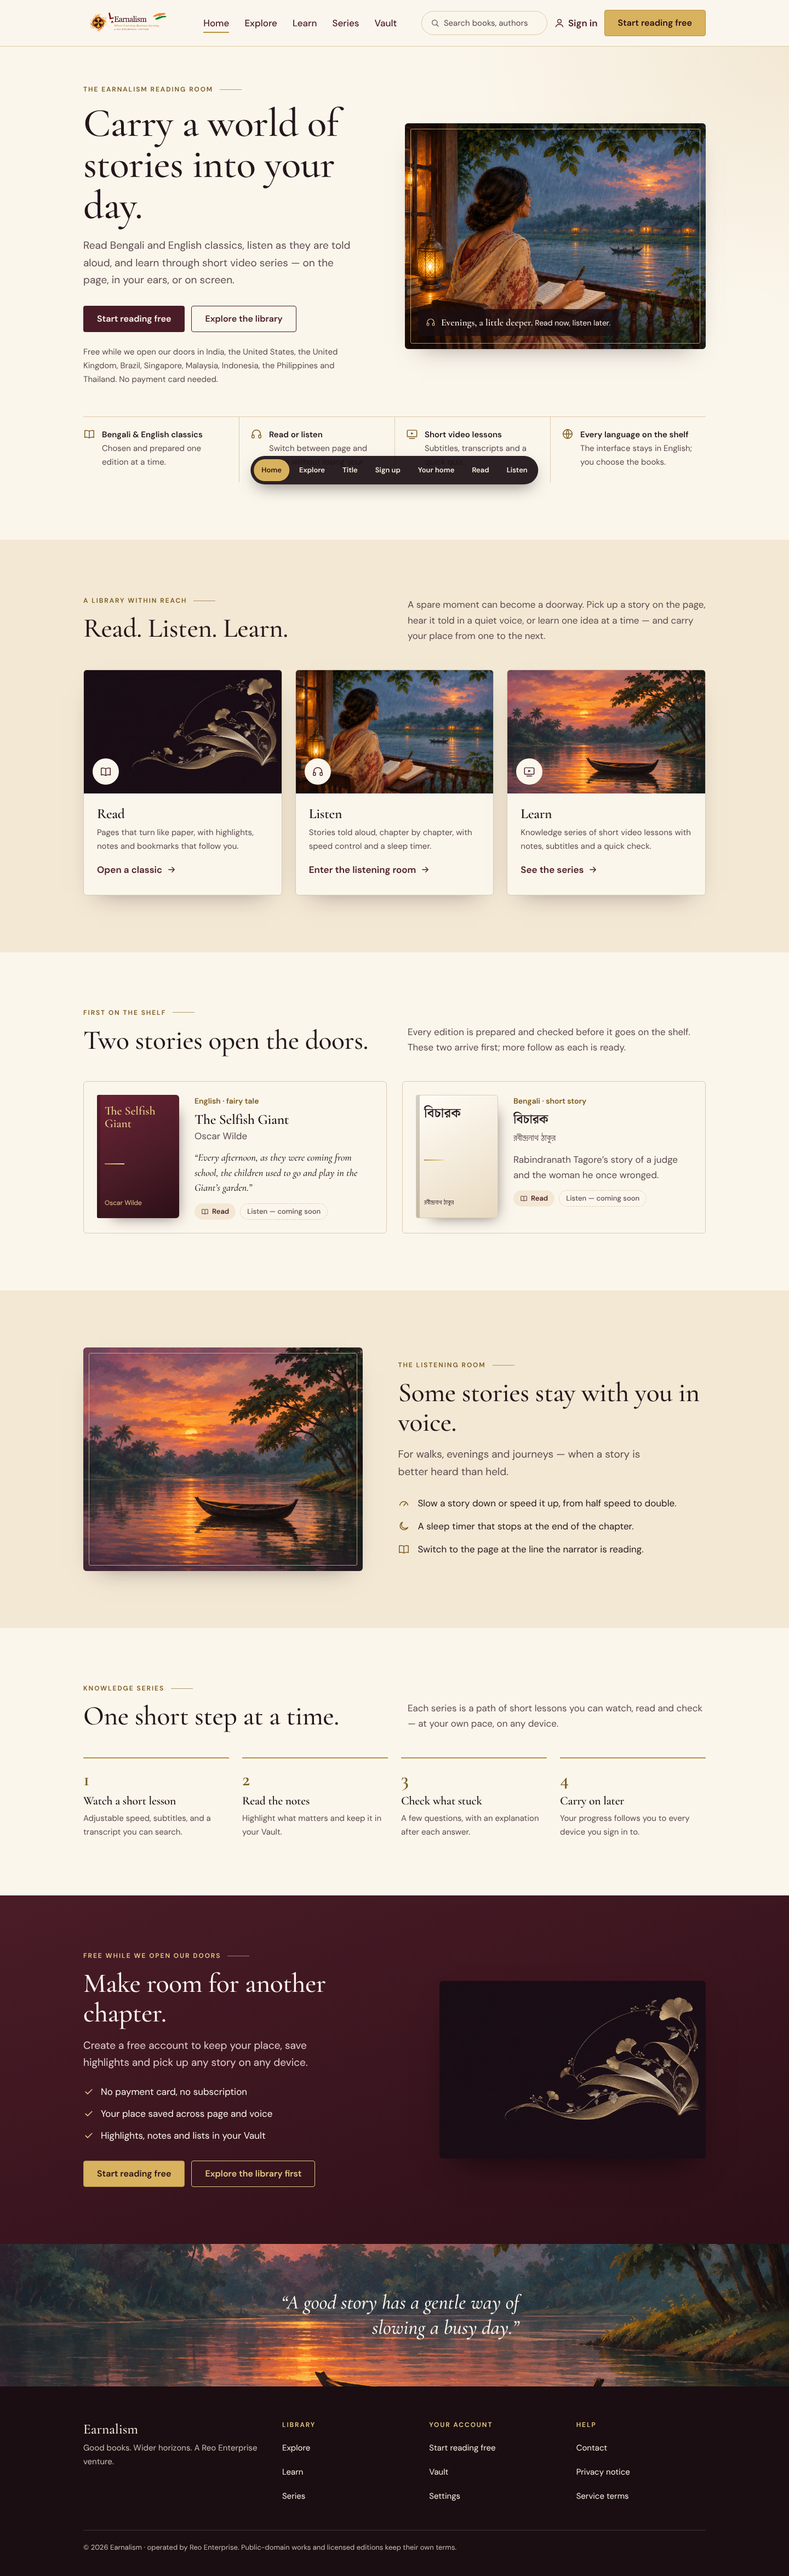
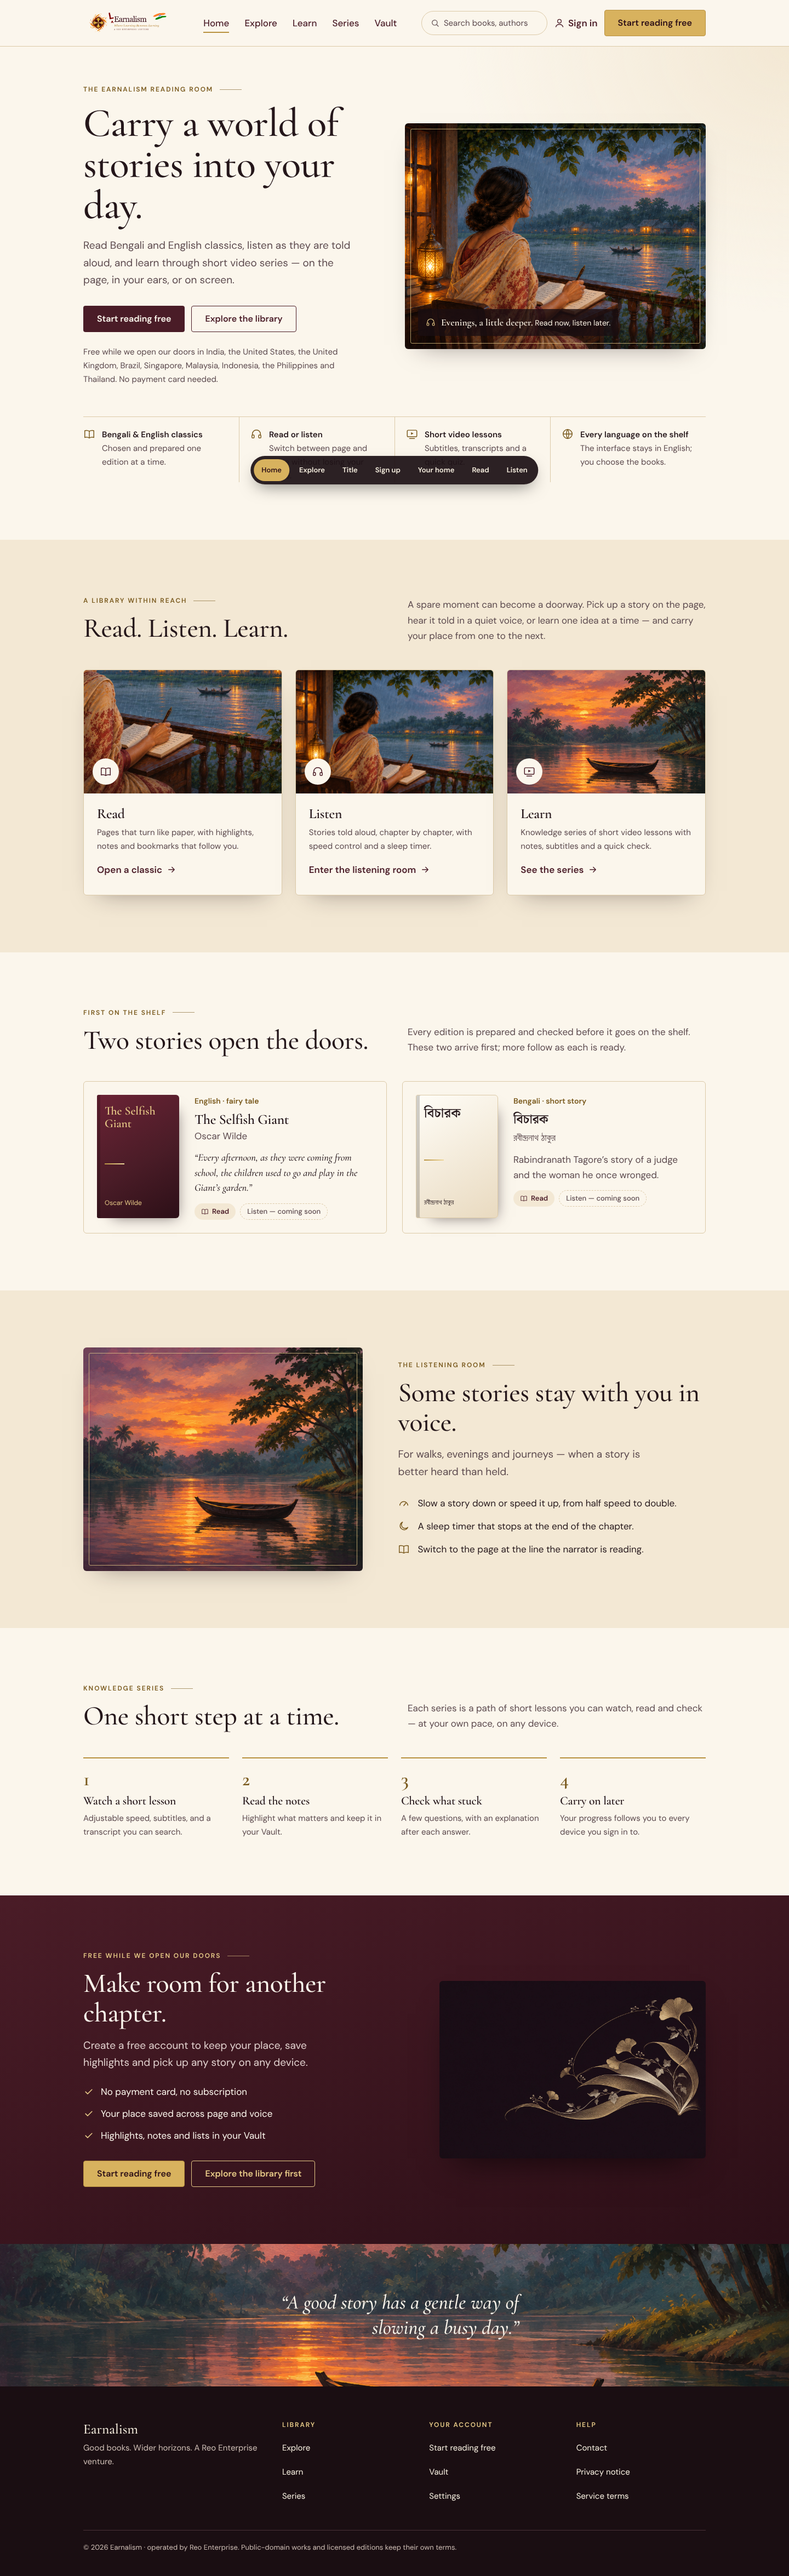
Final design: give the Read card a reading image
Close crop of the approved monsoon painting (open book and pen), matching
the painted Listen and Learn cards.

Claude-Session: https://claude.ai/code/session_018Zyit9apD5NEqK4Low8btd

Changed region(s): [[0.0938, 0.2485, 0.625, 0.3106]]

diff --git a/docs/design/final/index.html b/docs/design/final/index.html
@@ -438,8 +438,8 @@ mark.hl{background:rgba(216,178,94,.38);color:inherit;padding:0 .1em;border-radi
         <p class="muted" style="margin:0">A spare moment can become a doorway. Pick up a story on the page, hear it told in a quiet voice, or learn one idea at a time — and carry your place from one to the next.</p>
       </div>
       <div class="ways">
-        <a class="way" href="#title"><div class="pic"><img src="../../../static/maison/art/gold-pages.jpg" alt="" loading="lazy"><span class="mark"><svg aria-hidden="true"><use href="#i-book"/></svg></span></div><div class="body"><h3 class="h3">Read</h3><p>Pages that turn like paper, with highlights, notes and bookmarks that follow you.</p><span class="link">Open a classic <svg width="18" height="18" aria-hidden="true"><use href="#i-arrow"/></svg></span></div></a>
-        <a class="way" href="#listen"><div class="pic"><img src="../../../static/maison/art/hero.png" alt="" loading="lazy" style="object-position:30% 50%"><span class="mark"><svg aria-hidden="true"><use href="#i-head"/></svg></span></div><div class="body"><h3 class="h3">Listen</h3><p>Stories told aloud, chapter by chapter, with speed control and a sleep timer.</p><span class="link">Enter the listening room <svg width="18" height="18" aria-hidden="true"><use href="#i-arrow"/></svg></span></div></a>
+        <a class="way" href="#title"><div class="pic"><img src="art/read-open-book.jpg" alt="" loading="lazy"><span class="mark"><svg aria-hidden="true"><use href="#i-book"/></svg></span></div><div class="body"><h3 class="h3">Read</h3><p>Pages that turn like paper, with highlights, notes and bookmarks that follow you.</p><span class="link">Open a classic <svg width="18" height="18" aria-hidden="true"><use href="#i-arrow"/></svg></span></div></a>
+        <a class="way" href="#listen"><div class="pic"><img src="../../../static/maison/art/hero.png" alt="" loading="lazy" style="object-position:22% 30%"><span class="mark"><svg aria-hidden="true"><use href="#i-head"/></svg></span></div><div class="body"><h3 class="h3">Listen</h3><p>Stories told aloud, chapter by chapter, with speed control and a sleep timer.</p><span class="link">Enter the listening room <svg width="18" height="18" aria-hidden="true"><use href="#i-arrow"/></svg></span></div></a>
         <a class="way" href="#explore"><div class="pic"><img src="../../../static/maison/art/river.png" alt="" loading="lazy"><span class="mark"><svg aria-hidden="true"><use href="#i-play"/></svg></span></div><div class="body"><h3 class="h3">Learn</h3><p>Knowledge series of short video lessons with notes, subtitles and a quick check.</p><span class="link">See the series <svg width="18" height="18" aria-hidden="true"><use href="#i-arrow"/></svg></span></div></a>
       </div>
     </div>
